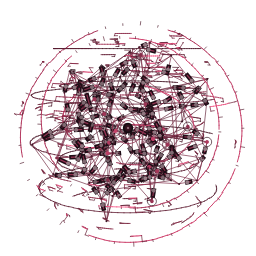
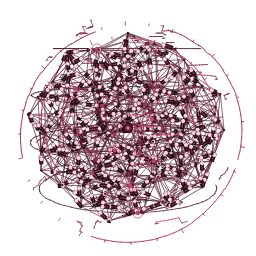
fix(ui): densify neural brain synapse sphere mesh eliminating gaps and voids

diff --git a/core/neural_matrix.py b/core/neural_matrix.py
@@ -1,6 +1,7 @@
 """
 Holographic 3D neural core simulating brain synapses, action potentials,
 and cortical telemetry in the signature wine red ('cor vinho') palette.
+Evenly distributed Fibonacci spherical mesh for dense, cohesive connectivity without voids or holes.
 """
 import math
 import random
@@ -20,44 +21,80 @@ class HoloNeuralSphere:
         self._pulse_rng = random.Random(2026)
         rng = random.Random(42)
 
-        # ── 1. Cortical Surface Circuit Traces ────────────────────────────────
-        self.traces = [
-            (rng.uniform(-1.3, 1.3), rng.uniform(0, math.tau),
-             rng.uniform(0.08, 0.40), rng.choice((0.72, 0.90, 1.02)), rng.random())
-            for _ in range(128)
-        ]
-
-        # ── 2. 3D Neural Nodes (Brain Synapse Network) ────────────────────────
-        # 148 nodes distributed across 3D sphere with hemisphere organization
+        # ── 1. 3D Neural Nodes Distributed by Fibonacci Sphere (Zero Holes) ──
+        # 190 nodes distributed uniformly across 3 concentric volumetric layers
         self.nodes = []
-        for i in range(148):
-            hemi = 1 if i % 2 == 0 else -1
-            lat = rng.uniform(-1.25, 1.25)
-            # Subtle hemisphere division simulating brain lobes
-            lon = rng.uniform(0.12, math.pi - 0.12) if hemi == 1 else rng.uniform(math.pi + 0.12, math.tau - 0.12)
-            rad = rng.uniform(0.24, 0.92)
-            self.nodes.append(self._sphere(lat, lon, rad))
 
-        # ── 3. Synaptic Axons & Inter-Hemispheric Bridges ─────────────────────
+        # Outer cortex: 110 nodes
+        n_out = 110
+        phi = (1.0 + math.sqrt(5.0)) / 2.0
+        for i in range(n_out):
+            y = 1.0 - (i / float(n_out - 1)) * 2.0
+            r_y = math.sqrt(max(0.0, 1.0 - y * y))
+            th = 2.0 * math.pi * i / phi
+            rad = rng.uniform(0.82, 0.96)
+            self.nodes.append((rad * r_y * math.cos(th), rad * y * 0.94, rad * r_y * math.sin(th)))
+
+        # Mid cortex: 55 nodes
+        n_mid = 55
+        for i in range(n_mid):
+            y = 1.0 - (i / float(n_mid - 1)) * 2.0
+            r_y = math.sqrt(max(0.0, 1.0 - y * y))
+            th = 2.0 * math.pi * (i + 0.33) / phi
+            rad = rng.uniform(0.52, 0.72)
+            self.nodes.append((rad * r_y * math.cos(th), rad * y * 0.94, rad * r_y * math.sin(th)))
+
+        # Inner core: 25 nodes
+        n_in = 25
+        for i in range(n_in):
+            y = 1.0 - (i / float(n_in - 1)) * 2.0
+            r_y = math.sqrt(max(0.0, 1.0 - y * y))
+            th = 2.0 * math.pi * (i + 0.67) / phi
+            rad = rng.uniform(0.24, 0.44)
+            self.nodes.append((rad * r_y * math.cos(th), rad * y * 0.94, rad * r_y * math.sin(th)))
+
+        # ── 2. Highly Connected Synaptic Mesh (No Holes / Comprehensive Web) ──
+        # Connect each node to 6 nearest neighbors + cross-layer bridges
         self.edges = []
         linked = set()
         for i, a in enumerate(self.nodes):
-            near = sorted([(sum((x - y) ** 2 for x, y in zip(a, b)), j) for j, b in enumerate(self.nodes) if j != i])
-            # Connect local synapses
-            for dist, j in near[:5]:
+            dists = sorted([(sum((x - y) ** 2 for x, y in zip(a, b)), j) for j, b in enumerate(self.nodes) if j != i])
+            # Primary local synaptic connections
+            for dist, j in dists[:6]:
                 pair = tuple(sorted((i, j)))
-                if pair not in linked and 0.008 < dist < 0.38:
+                if pair not in linked and dist < 0.32:
                     linked.add(pair)
                     self.edges.append((*pair, rng.random()))
-            # Cross-corpus callosum bridges (synaptic connections between hemispheres)
-            if i % 7 == 0:
-                cross = [j for d, j in near if 0.22 < d < 0.65]
-                if cross:
-                    j = rng.choice(cross)
-                    pair = tuple(sorted((i, j)))
-                    if pair not in linked:
+            # Radial / cross-layer bridges (connecting inner, mid, and outer layers)
+            for dist, j in dists[6:11]:
+                pair = tuple(sorted((i, j)))
+                if pair not in linked and 0.08 < dist < 0.48:
+                    if rng.random() > 0.45:
                         linked.add(pair)
                         self.edges.append((*pair, rng.random()))
+
+        # ── 3. Cortical Surface Circuit Traces ────────────────────────────────
+        self.traces = [
+            (rng.uniform(-1.25, 1.25), rng.uniform(0, math.tau),
+             rng.uniform(0.10, 0.38), rng.choice((0.75, 0.88, 1.01)), rng.random())
+            for _ in range(80)
+        ]
+
+        # ── 4. Incomplete Curved Spherical Shells ────────────────────────────
+        self.shells = [
+            (1.02, -0.83, 0.2, 4.2),
+            (0.96, -0.35, 1.3, 4.5),
+            (0.93,  0.12, 0.5, 3.8),
+            (1.02,  0.58, 2.3, 4.1),
+            (0.76, -0.57, 0.8, 4.0),
+            (0.74,  0.42, 2.1, 4.4),
+        ]
+
+        # ── 5. Gyroscopic Arcs ───────────────────────────────────────────────
+        self.gyro_arcs = []
+        for idx, rad in enumerate((0.35, 0.63, 0.86, 1.07)):
+            tilt = 0.25 + idx * 0.57
+            self.gyro_arcs.append((rad, tilt, idx))
 
     @staticmethod
     def _sphere(lat, lon, rad=1.0):
@@ -94,32 +131,49 @@ class HoloNeuralSphere:
         r = min(r * self.pulse_scale, min(W, H) * 0.44)
         activity = 0.0 if muted else self.activity
 
-        # ── Color Palette: "Cor Vinho" (Wine Red / Burgundy / Bordeaux) ──────
         if muted:
             color = QColor("#75818c")
             light = QColor("#b2bdc6")
             hot   = QColor("#d0d7dc")
         else:
-            # Respect user's wine red theme (#922747)
             color = main if (main and main.isValid() and main.name() != "#000000") else QColor("#922747")
-            light = color.lighter(185)  # Glowing rose-wine highlight
-            hot   = QColor("#ffd2de")   # Incandescent synaptic impulse spark
+            light = color.lighter(185)
+            hot   = QColor("#ffd2de")
 
-        def tint(c: QColor, a: float) -> QColor:
-            k = max(0.0, min(1.0, a))
-            return QColor(
-                int(bg.red()   + (c.red()   - bg.red())   * k),
-                int(bg.green() + (c.green() - bg.green()) * k),
-                int(bg.blue()  + (c.blue()  - bg.blue())  * k),
-            )
+        # Pre-mix color table for blazing fast rendering
+        bg_r, bg_g, bg_b = bg.red(), bg.green(), bg.blue()
+        c_r, c_g, c_b = color.red(), color.green(), color.blue()
+        l_r, l_g, l_b = light.red(), light.green(), light.blue()
 
-        # 3D Perspective Projection
+        color_lut = [
+            QColor(int(bg_r + (c_r - bg_r) * (k / 15.0)),
+                   int(bg_g + (c_g - bg_g) * (k / 15.0)),
+                   int(bg_b + (c_b - bg_b) * (k / 15.0)))
+            for k in range(16)
+        ]
+        light_lut = [
+            QColor(int(bg_r + (l_r - bg_r) * (k / 15.0)),
+                   int(bg_g + (l_g - bg_g) * (k / 15.0)),
+                   int(bg_b + (l_b - bg_b) * (k / 15.0)))
+            for k in range(16)
+        ]
+
+        def get_tint(is_light: bool, a: float) -> QColor:
+            idx = max(0, min(15, int(a * 15.0)))
+            return light_lut[idx] if is_light else color_lut[idx]
+
+        # 3D projection
+        cos_t = math.cos(t)
+        sin_t = math.sin(t)
+        roll = 0.15 + 0.05 * math.sin(t)
+        cos_roll = math.cos(roll)
+        sin_roll = math.sin(roll)
+
         def project(x, y, z):
-            rx = x * math.cos(t) + z * math.sin(t)
-            rz = -x * math.sin(t) + z * math.cos(t)
-            roll = 0.15 + 0.05 * math.sin(t)
-            ry = y * math.cos(roll) - rz * math.sin(roll)
-            rz = y * math.sin(roll) + rz * math.cos(roll)
+            rx = x * cos_t + z * sin_t
+            rz = -x * sin_t + z * cos_t
+            ry = y * cos_roll - rz * sin_roll
+            rz = y * sin_roll + rz * cos_roll
             k = 4.8 / (4.8 + rz)
             return QPointF(cx + r * rx * k, cy + r * ry * k), rz
 
@@ -131,103 +185,112 @@ class HoloNeuralSphere:
         def path(points, brightness=0.5, width=0.8, bright=False):
             pts = [project(*v) for v in points]
             for a, b in zip(pts, pts[1:]):
-                segments.append(((a[1] + b[1]) / 2.0, a[0], b[0], brightness, width, bright))
+                segments.append(((a[1] + b[1]) * 0.5, a[0], b[0], brightness, width, bright))
 
-        # ── 1. Incomplete Curved Spherical Shells (Cortical Gyri) ────────────
-        for shell, lat, start, span in (
-            (1.02, -0.83, 0.2, 4.2),
-            (0.96, -0.35, 1.3, 4.5),
-            (0.93,  0.12, 0.5, 3.8),
-            (1.02,  0.58, 2.3, 4.1),
-            (0.76, -0.57, 0.8, 4.0),
-            (0.74,  0.42, 2.1, 4.4),
-        ):
-            path([sphere(lat, start + j * span / 70.0, shell) for j in range(71)], 0.48)
+        # ── 1. Curved Shells ─────────────────────────────────────────────────
+        for shell, lat, start, span in self.shells:
+            path([sphere(lat, start + j * span / 48.0, shell) for j in range(49)], 0.48)
 
-        # ── 2. Gyroscopic Latitude/Longitude Arcs & Telemetry Registration ───
+        # ── 2. Gyro Arcs & Ticks ─────────────────────────────────────────────
         for index, rad in enumerate((0.35, 0.63, 0.86, 1.07)):
             tilt = 0.25 + index * 0.57
             rot_dir = 1 if index % 2 else -1
+            cos_tilt = math.cos(tilt)
+            sin_tilt = math.sin(tilt)
+
             for offset in (0.2, 2.7, 4.9):
                 pts = []
-                for j in range(34):
-                    a = offset + j * 0.046 + t * rot_dir
-                    pts.append((rad * math.cos(a), rad * math.sin(a) * math.sin(tilt), rad * math.sin(a) * math.cos(tilt)))
+                for j in range(24):
+                    a = offset + j * 0.065 + t * rot_dir
+                    pts.append((rad * math.cos(a), rad * math.sin(a) * sin_tilt, rad * math.sin(a) * cos_tilt))
                 path(pts, 0.70, 1.0, True)
 
-            for j in range(38):
-                a = j * math.tau / 38.0 + t * rot_dir
+            for j in range(28):
+                a = j * math.tau / 28.0 + t * rot_dir
                 def at(r_val):
-                    return (r_val * math.cos(a), r_val * math.sin(a) * math.sin(tilt), r_val * math.sin(a) * math.cos(tilt))
-                path([at(rad), at(rad + (0.017 if j % 4 else 0.035))], 0.50, 0.65)
+                    return (r_val * math.cos(a), r_val * math.sin(a) * sin_tilt, r_val * math.sin(a) * cos_tilt)
+                path([at(rad), at(rad + (0.018 if j % 4 else 0.036))], 0.50, 0.65)
 
-        # ── 3. Cortical Surface Circuit Traces with Stepped Extensions ───────
+        # ── 3. Traces ────────────────────────────────────────────────────────
         for lat, lon, length, rad, seed in self.traces:
-            path([sphere(lat, lon + j * length / 8.0, rad) for j in range(9)], 0.72, 0.8, seed > 0.7)
+            path([sphere(lat, lon + j * length / 6.0, rad) for j in range(7)], 0.72, 0.8, seed > 0.7)
             path([sphere(lat, lon, rad), sphere(lat + 0.035, lon, rad), sphere(lat + 0.035, lon + 0.045, rad)], 0.55, 0.7)
             if seed > 0.7:
                 path([sphere(lat, lon + length, rad), sphere(lat, lon + length, rad + 0.055), sphere(lat, lon + length + 0.08, rad + 0.055)], 0.60, 0.7)
 
-        # ── 4. Synaptic Axons (The 3D Brain Neural Web) ──────────────────────
+        # ── 4. Synaptic Axons (Dense Connected Neural Network) ───────────────
         for i, j, seed in self.edges:
-            path([self.nodes[i], self.nodes[j]], 0.14 + activity * 0.35, 0.68, True)
+            path([self.nodes[i], self.nodes[j]], 0.16 + activity * 0.35, 0.70, seed > 0.55)
 
         p.setBrush(Qt.BrushStyle.NoBrush)
 
-        # Draw all 3D segments sorted by depth
-        for z, a, b, brightness, width, bright in sorted(segments, key=lambda item: item[0], reverse=True):
-            alpha = max(0.035, min(1.0, brightness * (1.05 - 0.38 * z)))
-            p.setPen(QPen(tint(light if bright else color, alpha), width))
+        # Draw sorted lines
+        sorted_segs = sorted(segments, key=lambda item: item[0], reverse=True)
+        for z, a, b, brightness, width, bright in sorted_segs:
+            alpha = max(0.04, min(1.0, brightness * (1.05 - 0.38 * z)))
+            col = get_tint(bright, alpha)
+            p.setPen(QPen(col, width))
             p.drawLine(a, b)
 
-        # ── 5. Travelling Action Potential Impulses (Synaptic Firing) ────────
+        # ── 5. Action Potentials ─────────────────────────────────────────────
         if activity > 0.05:
             for i, j, seed in self.edges:
-                if seed > activity * 0.58:
+                if seed > activity * 0.55:
                     continue
-                progress = (self.clock * (0.70 + seed) + seed * 3.0) % 1.0
+                progress = (self.clock * (0.75 + seed) + seed * 3.0) % 1.0
                 a, b = self.nodes[i], self.nodes[j]
-                def interpolate(val):
-                    return tuple(x + (y - x) * val for x, y in zip(a, b))
-                head, z = project(*interpolate(progress))
-                tail, _ = project(*interpolate(max(0.0, progress - 0.16)))
+                ix = a[0] + (b[0] - a[0]) * progress
+                iy = a[1] + (b[1] - a[1]) * progress
+                iz = a[2] + (b[2] - a[2]) * progress
+                head, z = project(ix, iy, iz)
+
+                ptx = a[0] + (b[0] - a[0]) * max(0.0, progress - 0.16)
+                pty = a[1] + (b[1] - a[1]) * max(0.0, progress - 0.16)
+                ptz = a[2] + (b[2] - a[2]) * max(0.0, progress - 0.16)
+                tail, _ = project(ptx, pty, ptz)
+
                 intensity = activity * (0.75 - 0.18 * z)
+                col_trail = get_tint(False, intensity * 0.40)
+                col_core = get_tint(True, intensity)
 
-                # Glowing wine impulse trail
-                p.setPen(QPen(tint(color, intensity * 0.30), 4.5))
+                p.setPen(QPen(col_trail, 4.0))
                 p.drawLine(tail, head)
-                p.setPen(QPen(tint(light, intensity), 1.25))
+                p.setPen(QPen(col_core, 1.25))
                 p.drawLine(tail, head)
-                # Incandescent action potential head
+
                 p.setPen(Qt.PenStyle.NoPen)
-                p.setBrush(tint(hot, intensity))
-                size = 1.4 + activity * 0.9
-                p.drawEllipse(head, size, size)
+                p.setBrush(hot)
+                sz = 1.4 + activity * 0.9
+                p.drawEllipse(head, sz, sz)
 
-        # ── 6. Neural Nodes (Synapse Soma Hubs) ──────────────────────────────
+        # ── 6. Soma Nodes ────────────────────────────────────────────────────
         for i, node in enumerate(self.nodes):
             point, z = project(*node)
-            pulse = (max(0.0, math.sin(self.clock * 4.0 - i * 1.7))) ** 8 * activity
-            alpha = (0.22 + pulse * 0.70) * max(0.30, 1.0 - z * 0.30)
-            p.setPen(Qt.PenStyle.NoPen)
-            p.setBrush(tint(light, alpha))
-            p.drawEllipse(point, 1.0 + pulse * 1.6, 1.0 + pulse * 1.6)
-            if pulse > 0.42:
-                p.setPen(QPen(tint(light, pulse * 0.35), 0.70))
-                p.setBrush(Qt.BrushStyle.NoBrush)
-                p.drawEllipse(point, 3.0 + pulse * 3.0, 3.0 + pulse * 3.0)
+            pulse = (max(0.0, math.sin(self.clock * 4.0 - i * 1.5))) ** 8 * activity
+            alpha = (0.24 + pulse * 0.70) * max(0.30, 1.0 - z * 0.30)
+            col_node = get_tint(True, alpha)
 
-        # ── 7. Layered Holographic Nucleus & Core Glow ───────────────────────
+            p.setPen(Qt.PenStyle.NoPen)
+            p.setBrush(col_node)
+            p.drawEllipse(point, 1.2 + pulse * 1.6, 1.2 + pulse * 1.6)
+
+            if pulse > 0.40:
+                p.setPen(QPen(col_node, 0.70))
+                p.setBrush(Qt.BrushStyle.NoBrush)
+                p.drawEllipse(point, 3.2 + pulse * 3.0, 3.2 + pulse * 3.0)
+
+        # ── 7. Nucleus ───────────────────────────────────────────────────────
         for index, scale in enumerate((0.072, 0.105, 0.15)):
             radius = r * scale
             p.setBrush(Qt.BrushStyle.NoBrush)
-            p.setPen(QPen(tint(light, 0.42 + activity * 0.20), 0.80))
+            col_arc = get_tint(True, 0.42 + activity * 0.20)
+            p.setPen(QPen(col_arc, 0.80))
             rect = QRectF(cx - radius, cy - radius, radius * 2, radius * 2)
             p.drawArc(rect, int((self.clock * 18 * (1 if index % 2 else -1) + index * 80) * 16), 245 * 16)
 
         glow = QRadialGradient(cx, cy, r * 0.050)
-        glow.setColorAt(0.00, tint(hot, 0.52 + activity * 0.35))
-        glow.setColorAt(0.30, tint(color, 0.38))
+        glow.setColorAt(0.00, hot)
+        glow.setColorAt(0.35, color)
         glow.setColorAt(1.00, bg)
         p.setPen(Qt.PenStyle.NoPen)
         p.setBrush(QBrush(glow))
